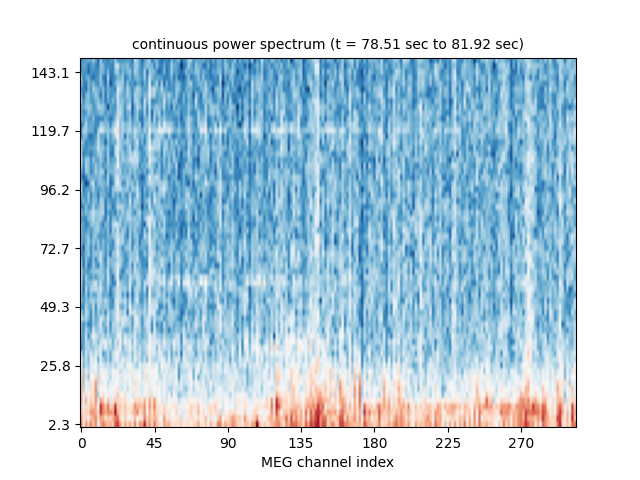
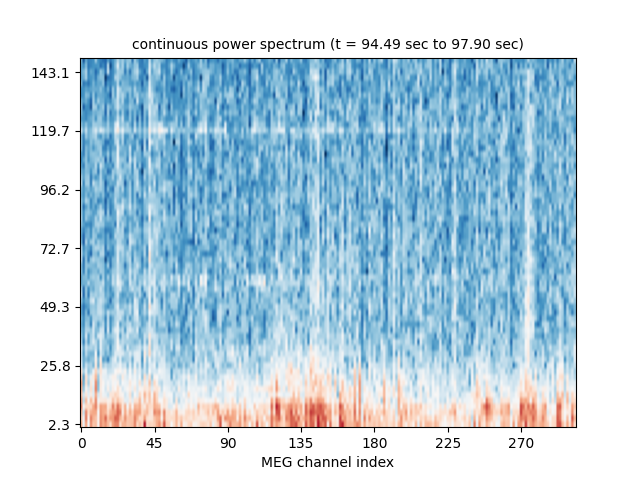
CircleCI update of mne-realtime docs (754).

diff --git a/mne-realtime/auto_examples/plot_lslclient_rt.html b/mne-realtime/auto_examples/plot_lslclient_rt.html
@@ -450,20 +450,20 @@ Not setting metadata
 No baseline correction applied
 Created an SSP operator (subspace dimension = 1)
 1 projection items activated
-/home/circleci/.pyenv/versions/3.12.7/lib/python3.12/multiprocessing/popen_fork.py:66: DeprecationWarning: This process (pid=1786) is multi-threaded, use of fork() may lead to deadlocks in the child.
+/home/circleci/.pyenv/versions/3.12.7/lib/python3.12/multiprocessing/popen_fork.py:66: DeprecationWarning: This process (pid=1805) is multi-threaded, use of fork() may lead to deadlocks in the child.
   self.pid = os.fork()
 Streams closed
-/home/circleci/.pyenv/versions/3.12.7/lib/python3.12/multiprocessing/popen_fork.py:66: DeprecationWarning: This process (pid=1786) is multi-threaded, use of fork() may lead to deadlocks in the child.
+/home/circleci/.pyenv/versions/3.12.7/lib/python3.12/multiprocessing/popen_fork.py:66: DeprecationWarning: This process (pid=1805) is multi-threaded, use of fork() may lead to deadlocks in the child.
   self.pid = os.fork()
-/home/circleci/.pyenv/versions/3.12.7/lib/python3.12/multiprocessing/popen_fork.py:66: DeprecationWarning: This process (pid=1786) is multi-threaded, use of fork() may lead to deadlocks in the child.
+/home/circleci/.pyenv/versions/3.12.7/lib/python3.12/multiprocessing/popen_fork.py:66: DeprecationWarning: This process (pid=1805) is multi-threaded, use of fork() may lead to deadlocks in the child.
   self.pid = os.fork()
-/home/circleci/.pyenv/versions/3.12.7/lib/python3.12/multiprocessing/popen_fork.py:66: DeprecationWarning: This process (pid=1786) is multi-threaded, use of fork() may lead to deadlocks in the child.
+/home/circleci/.pyenv/versions/3.12.7/lib/python3.12/multiprocessing/popen_fork.py:66: DeprecationWarning: This process (pid=1805) is multi-threaded, use of fork() may lead to deadlocks in the child.
   self.pid = os.fork()
-/home/circleci/.pyenv/versions/3.12.7/lib/python3.12/multiprocessing/popen_fork.py:66: DeprecationWarning: This process (pid=1786) is multi-threaded, use of fork() may lead to deadlocks in the child.
+/home/circleci/.pyenv/versions/3.12.7/lib/python3.12/multiprocessing/popen_fork.py:66: DeprecationWarning: This process (pid=1805) is multi-threaded, use of fork() may lead to deadlocks in the child.
   self.pid = os.fork()
-/home/circleci/.pyenv/versions/3.12.7/lib/python3.12/multiprocessing/popen_fork.py:66: DeprecationWarning: This process (pid=1786) is multi-threaded, use of fork() may lead to deadlocks in the child.
+/home/circleci/.pyenv/versions/3.12.7/lib/python3.12/multiprocessing/popen_fork.py:66: DeprecationWarning: This process (pid=1805) is multi-threaded, use of fork() may lead to deadlocks in the child.
   self.pid = os.fork()
-/home/circleci/.pyenv/versions/3.12.7/lib/python3.12/multiprocessing/popen_fork.py:66: DeprecationWarning: This process (pid=1786) is multi-threaded, use of fork() may lead to deadlocks in the child.
+/home/circleci/.pyenv/versions/3.12.7/lib/python3.12/multiprocessing/popen_fork.py:66: DeprecationWarning: This process (pid=1805) is multi-threaded, use of fork() may lead to deadlocks in the child.
   self.pid = os.fork()
 </pre></div>
 </div>
@@ -516,8 +516,8 @@ Streams closed
 <span class="nb">print</span><span class="p">(</span><span class="s1">&#39;Streams closed&#39;</span><span class="p">)</span>
 </pre></div>
 </div>
-<p class="sphx-glr-timing"><strong>Total running time of the script:</strong> (0 minutes 8.532 seconds)</p>
-<p><strong>Estimated memory usage:</strong>  186 MB</p>
+<p class="sphx-glr-timing"><strong>Total running time of the script:</strong> (0 minutes 8.368 seconds)</p>
+<p><strong>Estimated memory usage:</strong>  181 MB</p>
 <div class="sphx-glr-footer sphx-glr-footer-example docutils container" id="sphx-glr-download-auto-examples-plot-lslclient-rt-py">
 <div class="sphx-glr-download sphx-glr-download-jupyter docutils container">
 <p><a class="reference download internal" download="" href="../_downloads/37ea165bff9eb9cf2fccf24163045c99/plot_lslclient_rt.ipynb"><code class="xref download docutils literal notranslate"><span class="pre">Download</span> <span class="pre">Jupyter</span> <span class="pre">notebook:</span> <span class="pre">plot_lslclient_rt.ipynb</span></code></a></p>
@@ -590,7 +590,7 @@ Streams closed
 
   <p class="copyright">
     
-      © Copyright 2012-2026, MNE Developers. Last updated on 2026-05-01.
+      © Copyright 2012-2026, MNE Developers. Last updated on 2026-05-03.
       <br/>
     
   </p>

diff --git a/mne-realtime/sg_execution_times.html b/mne-realtime/sg_execution_times.html
@@ -366,7 +366,7 @@
                   
   <section id="computation-times">
 <span id="sphx-glr-sg-execution-times"></span><h1>Computation times<a class="headerlink" href="#computation-times" title="Link to this heading">#</a></h1>
-<p><strong>01:21.131</strong> total execution time for 8 files <strong>from all galleries</strong>:</p>
+<p><strong>01:20.979</strong> total execution time for 8 files <strong>from all galleries</strong>:</p>
 <div class="docutils container">
 <style scoped>
 <link href="https://cdnjs.cloudflare.com/ajax/libs/twitter-bootstrap/5.3.0/css/bootstrap.min.css" rel="stylesheet" />
@@ -388,28 +388,28 @@ $(document).ready( function () {
 </thead>
 <tbody>
 <tr class="row-even"><td><p><a class="reference internal" href="auto_examples/plot_compute_rt_decoder.html#sphx-glr-auto-examples-plot-compute-rt-decoder-py"><span class="std std-ref">Decoding real-time data</span></a> (<code class="docutils literal notranslate"><span class="pre">../examples/plot_compute_rt_decoder.py</span></code>)</p></td>
-<td><p>00:21.574</p></td>
-<td><p>321.2</p></td>
+<td><p>00:21.640</p></td>
+<td><p>324.9</p></td>
 </tr>
 <tr class="row-odd"><td><p><a class="reference internal" href="auto_examples/plot_compute_rt_average.html#sphx-glr-auto-examples-plot-compute-rt-average-py"><span class="std std-ref">Compute real-time evoked responses using moving averages</span></a> (<code class="docutils literal notranslate"><span class="pre">../examples/plot_compute_rt_average.py</span></code>)</p></td>
-<td><p>00:17.687</p></td>
-<td><p>506.1</p></td>
+<td><p>00:17.916</p></td>
+<td><p>507.6</p></td>
 </tr>
 <tr class="row-even"><td><p><a class="reference internal" href="auto_examples/plot_ftclient_rt_average.html#sphx-glr-auto-examples-plot-ftclient-rt-average-py"><span class="std std-ref">Compute real-time evoked responses with FieldTrip client</span></a> (<code class="docutils literal notranslate"><span class="pre">../examples/plot_ftclient_rt_average.py</span></code>)</p></td>
-<td><p>00:17.385</p></td>
-<td><p>197.4</p></td>
+<td><p>00:16.766</p></td>
+<td><p>197.0</p></td>
 </tr>
 <tr class="row-odd"><td><p><a class="reference internal" href="auto_examples/plot_ftclient_rt_compute_psd.html#sphx-glr-auto-examples-plot-ftclient-rt-compute-psd-py"><span class="std std-ref">Compute real-time power spectrum density with FieldTrip client</span></a> (<code class="docutils literal notranslate"><span class="pre">../examples/plot_ftclient_rt_compute_psd.py</span></code>)</p></td>
-<td><p>00:10.938</p></td>
-<td><p>183.0</p></td>
+<td><p>00:12.380</p></td>
+<td><p>190.0</p></td>
 </tr>
 <tr class="row-even"><td><p><a class="reference internal" href="auto_examples/plot_lslclient_rt.html#sphx-glr-auto-examples-plot-lslclient-rt-py"><span class="std std-ref">Plot real-time epoch data with LSL client</span></a> (<code class="docutils literal notranslate"><span class="pre">../examples/plot_lslclient_rt.py</span></code>)</p></td>
-<td><p>00:08.532</p></td>
-<td><p>185.7</p></td>
+<td><p>00:08.368</p></td>
+<td><p>180.7</p></td>
 </tr>
 <tr class="row-odd"><td><p><a class="reference internal" href="auto_examples/plot_rt_feedback_server.html#sphx-glr-auto-examples-plot-rt-feedback-server-py"><span class="std std-ref">Real-time feedback for decoding :: Server Side</span></a> (<code class="docutils literal notranslate"><span class="pre">../examples/plot_rt_feedback_server.py</span></code>)</p></td>
-<td><p>00:05.015</p></td>
-<td><p>313.0</p></td>
+<td><p>00:03.907</p></td>
+<td><p>317.4</p></td>
 </tr>
 <tr class="row-even"><td><p><a class="reference internal" href="auto_examples/rt_feedback_client.html#sphx-glr-auto-examples-rt-feedback-client-py"><span class="std std-ref">Real-time feedback for decoding :: Client Side</span></a> (<code class="docutils literal notranslate"><span class="pre">../examples/rt_feedback_client.py</span></code>)</p></td>
 <td><p>00:00.000</p></td>
@@ -465,7 +465,7 @@ $(document).ready( function () {
 
   <p class="copyright">
     
-      © Copyright 2012-2026, MNE Developers. Last updated on 2026-05-01.
+      © Copyright 2012-2026, MNE Developers. Last updated on 2026-05-03.
       <br/>
     
   </p>

diff --git a/mne-realtime/auto_examples/sg_execution_times.html b/mne-realtime/auto_examples/sg_execution_times.html
@@ -366,7 +366,7 @@
                   
   <section id="computation-times">
 <span id="sphx-glr-auto-examples-sg-execution-times"></span><h1>Computation times<a class="headerlink" href="#computation-times" title="Link to this heading">#</a></h1>
-<p><strong>01:21.131</strong> total execution time for 8 files <strong>from auto_examples</strong>:</p>
+<p><strong>01:20.979</strong> total execution time for 8 files <strong>from auto_examples</strong>:</p>
 <div class="docutils container">
 <style scoped>
 <link href="https://cdnjs.cloudflare.com/ajax/libs/twitter-bootstrap/5.3.0/css/bootstrap.min.css" rel="stylesheet" />
@@ -388,28 +388,28 @@ $(document).ready( function () {
 </thead>
 <tbody>
 <tr class="row-even"><td><p><a class="reference internal" href="plot_compute_rt_decoder.html#sphx-glr-auto-examples-plot-compute-rt-decoder-py"><span class="std std-ref">Decoding real-time data</span></a> (<code class="docutils literal notranslate"><span class="pre">plot_compute_rt_decoder.py</span></code>)</p></td>
-<td><p>00:21.574</p></td>
-<td><p>321.2</p></td>
+<td><p>00:21.640</p></td>
+<td><p>324.9</p></td>
 </tr>
 <tr class="row-odd"><td><p><a class="reference internal" href="plot_compute_rt_average.html#sphx-glr-auto-examples-plot-compute-rt-average-py"><span class="std std-ref">Compute real-time evoked responses using moving averages</span></a> (<code class="docutils literal notranslate"><span class="pre">plot_compute_rt_average.py</span></code>)</p></td>
-<td><p>00:17.687</p></td>
-<td><p>506.1</p></td>
+<td><p>00:17.916</p></td>
+<td><p>507.6</p></td>
 </tr>
 <tr class="row-even"><td><p><a class="reference internal" href="plot_ftclient_rt_average.html#sphx-glr-auto-examples-plot-ftclient-rt-average-py"><span class="std std-ref">Compute real-time evoked responses with FieldTrip client</span></a> (<code class="docutils literal notranslate"><span class="pre">plot_ftclient_rt_average.py</span></code>)</p></td>
-<td><p>00:17.385</p></td>
-<td><p>197.4</p></td>
+<td><p>00:16.766</p></td>
+<td><p>197.0</p></td>
 </tr>
 <tr class="row-odd"><td><p><a class="reference internal" href="plot_ftclient_rt_compute_psd.html#sphx-glr-auto-examples-plot-ftclient-rt-compute-psd-py"><span class="std std-ref">Compute real-time power spectrum density with FieldTrip client</span></a> (<code class="docutils literal notranslate"><span class="pre">plot_ftclient_rt_compute_psd.py</span></code>)</p></td>
-<td><p>00:10.938</p></td>
-<td><p>183.0</p></td>
+<td><p>00:12.380</p></td>
+<td><p>190.0</p></td>
 </tr>
 <tr class="row-even"><td><p><a class="reference internal" href="plot_lslclient_rt.html#sphx-glr-auto-examples-plot-lslclient-rt-py"><span class="std std-ref">Plot real-time epoch data with LSL client</span></a> (<code class="docutils literal notranslate"><span class="pre">plot_lslclient_rt.py</span></code>)</p></td>
-<td><p>00:08.532</p></td>
-<td><p>185.7</p></td>
+<td><p>00:08.368</p></td>
+<td><p>180.7</p></td>
 </tr>
 <tr class="row-odd"><td><p><a class="reference internal" href="plot_rt_feedback_server.html#sphx-glr-auto-examples-plot-rt-feedback-server-py"><span class="std std-ref">Real-time feedback for decoding :: Server Side</span></a> (<code class="docutils literal notranslate"><span class="pre">plot_rt_feedback_server.py</span></code>)</p></td>
-<td><p>00:05.015</p></td>
-<td><p>313.0</p></td>
+<td><p>00:03.907</p></td>
+<td><p>317.4</p></td>
 </tr>
 <tr class="row-even"><td><p><a class="reference internal" href="rt_feedback_client.html#sphx-glr-auto-examples-rt-feedback-client-py"><span class="std std-ref">Real-time feedback for decoding :: Client Side</span></a> (<code class="docutils literal notranslate"><span class="pre">rt_feedback_client.py</span></code>)</p></td>
 <td><p>00:00.000</p></td>
@@ -465,7 +465,7 @@ $(document).ready( function () {
 
   <p class="copyright">
     
-      © Copyright 2012-2026, MNE Developers. Last updated on 2026-05-01.
+      © Copyright 2012-2026, MNE Developers. Last updated on 2026-05-03.
       <br/>
     
   </p>

diff --git a/mne-realtime/auto_examples/plot_ftclient_rt_compute_psd.html b/mne-realtime/auto_examples/plot_ftclient_rt_compute_psd.html
@@ -405,13 +405,13 @@ how to get the FieldTrip connector working in MNE-Python.</p>
 <p>This example demonstrates how to use it for continuous
 computation of power spectra in real-time using the
 get_data_as_epoch function.</p>
-<img src="../_images/sphx_glr_plot_ftclient_rt_compute_psd_001.png" srcset="../_images/sphx_glr_plot_ftclient_rt_compute_psd_001.png" alt="continuous power spectrum (t = 78.51 sec to 81.92 sec)" class = "sphx-glr-single-img"/><div class="sphx-glr-script-out highlight-none notranslate"><div class="highlight"><pre><span></span>    Read a total of 3 projection items:
+<img src="../_images/sphx_glr_plot_ftclient_rt_compute_psd_001.png" srcset="../_images/sphx_glr_plot_ftclient_rt_compute_psd_001.png" alt="continuous power spectrum (t = 94.49 sec to 97.90 sec)" class = "sphx-glr-single-img"/><div class="sphx-glr-script-out highlight-none notranslate"><div class="highlight"><pre><span></span>    Read a total of 3 projection items:
         PCA-v1 (1 x 102)  idle
         PCA-v2 (1 x 102)  idle
         PCA-v3 (1 x 102)  idle
 Running subprocess: neuromag2ft --file /home/circleci/mne_data/MNE-sample-data/MEG/sample/sample_audvis_raw.fif --speed 10
 FieldTripClient: Waiting for server to start
-/home/circleci/project/mne_realtime/externals/FieldTrip.py:227: ResourceWarning: unclosed &lt;socket.socket fd=13, family=2, type=1, proto=0, laddr=(&#39;0.0.0.0&#39;, 34642)&gt;
+/home/circleci/project/mne_realtime/externals/FieldTrip.py:227: ResourceWarning: unclosed &lt;socket.socket fd=13, family=2, type=1, proto=0, laddr=(&#39;0.0.0.0&#39;, 34598)&gt;
   self.sock = socket.socket(socket.AF_INET, socket.SOCK_STREAM)
 FieldTripClient: Connected
 FieldTripClient: Retrieving header
@@ -526,8 +526,8 @@ Effective window size : 0.426 (s)
             <a href="https://matplotlib.org/stable/api/_as_gen/matplotlib.pyplot.pause.html#matplotlib.pyplot.pause" title="matplotlib.pyplot.pause" class="sphx-glr-backref-module-matplotlib-pyplot sphx-glr-backref-type-py-function"><span class="n">plt</span><span class="o">.</span><span class="n">pause</span></a><span class="p">(</span><span class="mf">0.5</span> <span class="o">/</span> <a href="https://docs.python.org/3/library/functions.html#int" title="builtins.int" class="sphx-glr-backref-module-builtins sphx-glr-backref-type-py-class sphx-glr-backref-instance"><span class="n">speedup</span></a><span class="p">)</span>
 </pre></div>
 </div>
-<p class="sphx-glr-timing"><strong>Total running time of the script:</strong> (0 minutes 10.938 seconds)</p>
-<p><strong>Estimated memory usage:</strong>  183 MB</p>
+<p class="sphx-glr-timing"><strong>Total running time of the script:</strong> (0 minutes 12.380 seconds)</p>
+<p><strong>Estimated memory usage:</strong>  190 MB</p>
 <div class="sphx-glr-footer sphx-glr-footer-example docutils container" id="sphx-glr-download-auto-examples-plot-ftclient-rt-compute-psd-py">
 <div class="sphx-glr-download sphx-glr-download-jupyter docutils container">
 <p><a class="reference download internal" download="" href="../_downloads/ff16df4abc294795a0d28245155bd3eb/plot_ftclient_rt_compute_psd.ipynb"><code class="xref download docutils literal notranslate"><span class="pre">Download</span> <span class="pre">Jupyter</span> <span class="pre">notebook:</span> <span class="pre">plot_ftclient_rt_compute_psd.ipynb</span></code></a></p>
@@ -600,7 +600,7 @@ Effective window size : 0.426 (s)
 
   <p class="copyright">
     
-      © Copyright 2012-2026, MNE Developers. Last updated on 2026-05-01.
+      © Copyright 2012-2026, MNE Developers. Last updated on 2026-05-03.
       <br/>
     
   </p>

diff --git a/mne-realtime/auto_examples/plot_ftclient_rt_average.html b/mne-realtime/auto_examples/plot_ftclient_rt_average.html
@@ -423,7 +423,7 @@ responses using moving averages.</p>
         PCA-v3 (1 x 102)  idle
 Running subprocess: neuromag2ft --file /home/circleci/mne_data/MNE-sample-data/MEG/sample/sample_audvis_raw.fif --speed 10
 FieldTripClient: Waiting for server to start
-/home/circleci/project/mne_realtime/externals/FieldTrip.py:227: ResourceWarning: unclosed &lt;socket.socket fd=13, family=2, type=1, proto=0, laddr=(&#39;0.0.0.0&#39;, 59642)&gt;
+/home/circleci/project/mne_realtime/externals/FieldTrip.py:227: ResourceWarning: unclosed &lt;socket.socket fd=13, family=2, type=1, proto=0, laddr=(&#39;0.0.0.0&#39;, 39080)&gt;
   self.sock = socket.socket(socket.AF_INET, socket.SOCK_STREAM)
 FieldTripClient: Connected
 FieldTripClient: Retrieving header
@@ -441,6 +441,7 @@ NOTE: pick_types() is a legacy function. New code should use inst.pick(...).
 Waiting for epoch 3
 Just got epoch 3
 NOTE: pick_types() is a legacy function. New code should use inst.pick(...).
+Waiting for epoch 4
 Just got epoch 4
 NOTE: pick_types() is a legacy function. New code should use inst.pick(...).
 Waiting for epoch 5
@@ -542,7 +543,7 @@ Time of 2.0 seconds exceeded.
         <a href="../generated/mne_realtime.RtEpochs.html#mne_realtime.RtEpochs.stop" title="mne_realtime.RtEpochs.stop" class="sphx-glr-backref-module-mne_realtime sphx-glr-backref-type-py-method"><span class="n">rt_epochs</span><span class="o">.</span><span class="n">stop</span></a><span class="p">()</span>
 </pre></div>
 </div>
-<p class="sphx-glr-timing"><strong>Total running time of the script:</strong> (0 minutes 17.385 seconds)</p>
+<p class="sphx-glr-timing"><strong>Total running time of the script:</strong> (0 minutes 16.766 seconds)</p>
 <p><strong>Estimated memory usage:</strong>  197 MB</p>
 <div class="sphx-glr-footer sphx-glr-footer-example docutils container" id="sphx-glr-download-auto-examples-plot-ftclient-rt-average-py">
 <div class="sphx-glr-download sphx-glr-download-jupyter docutils container">
@@ -616,7 +617,7 @@ Time of 2.0 seconds exceeded.
 
   <p class="copyright">
     
-      © Copyright 2012-2026, MNE Developers. Last updated on 2026-05-01.
+      © Copyright 2012-2026, MNE Developers. Last updated on 2026-05-03.
       <br/>
     
   </p>

diff --git a/mne-realtime/auto_examples/plot_compute_rt_average.html b/mne-realtime/auto_examples/plot_compute_rt_average.html
@@ -554,8 +554,8 @@ Time of 2.0 seconds exceeded.
     <a href="https://matplotlib.org/stable/api/_as_gen/matplotlib.pyplot.pause.html#matplotlib.pyplot.pause" title="matplotlib.pyplot.pause" class="sphx-glr-backref-module-matplotlib-pyplot sphx-glr-backref-type-py-function"><span class="n">plt</span><span class="o">.</span><span class="n">pause</span></a><span class="p">(</span><span class="mf">0.05</span><span class="p">)</span>
 </pre></div>
 </div>
-<p class="sphx-glr-timing"><strong>Total running time of the script:</strong> (0 minutes 17.687 seconds)</p>
-<p><strong>Estimated memory usage:</strong>  506 MB</p>
+<p class="sphx-glr-timing"><strong>Total running time of the script:</strong> (0 minutes 17.916 seconds)</p>
+<p><strong>Estimated memory usage:</strong>  508 MB</p>
 <div class="sphx-glr-footer sphx-glr-footer-example docutils container" id="sphx-glr-download-auto-examples-plot-compute-rt-average-py">
 <div class="sphx-glr-download sphx-glr-download-jupyter docutils container">
 <p><a class="reference download internal" download="" href="../_downloads/55fcf011b799c5ea1befd73a8932db2f/plot_compute_rt_average.ipynb"><code class="xref download docutils literal notranslate"><span class="pre">Download</span> <span class="pre">Jupyter</span> <span class="pre">notebook:</span> <span class="pre">plot_compute_rt_average.ipynb</span></code></a></p>
@@ -628,7 +628,7 @@ Time of 2.0 seconds exceeded.
 
   <p class="copyright">
     
-      © Copyright 2012-2026, MNE Developers. Last updated on 2026-05-01.
+      © Copyright 2012-2026, MNE Developers. Last updated on 2026-05-03.
       <br/>
     
   </p>

diff --git a/mne-realtime/auto_examples/plot_rt_feedback_server.html b/mne-realtime/auto_examples/plot_rt_feedback_server.html
@@ -569,8 +569,8 @@ Shutting down ...
                 <a href="https://matplotlib.org/stable/api/_as_gen/matplotlib.pyplot.pause.html#matplotlib.pyplot.pause" title="matplotlib.pyplot.pause" class="sphx-glr-backref-module-matplotlib-pyplot sphx-glr-backref-type-py-function"><span class="n">plt</span><span class="o">.</span><span class="n">pause</span></a><span class="p">(</span><span class="mf">0.01</span><span class="p">)</span>
 </pre></div>
 </div>
-<p class="sphx-glr-timing"><strong>Total running time of the script:</strong> (0 minutes 5.015 seconds)</p>
-<p><strong>Estimated memory usage:</strong>  313 MB</p>
+<p class="sphx-glr-timing"><strong>Total running time of the script:</strong> (0 minutes 3.907 seconds)</p>
+<p><strong>Estimated memory usage:</strong>  317 MB</p>
 <div class="sphx-glr-footer sphx-glr-footer-example docutils container" id="sphx-glr-download-auto-examples-plot-rt-feedback-server-py">
 <div class="sphx-glr-download sphx-glr-download-jupyter docutils container">
 <p><a class="reference download internal" download="" href="../_downloads/b117bd599ec872d37d8ed5d4181f3e2e/plot_rt_feedback_server.ipynb"><code class="xref download docutils literal notranslate"><span class="pre">Download</span> <span class="pre">Jupyter</span> <span class="pre">notebook:</span> <span class="pre">plot_rt_feedback_server.ipynb</span></code></a></p>
@@ -643,7 +643,7 @@ Shutting down ...
 
   <p class="copyright">
     
-      © Copyright 2012-2026, MNE Developers. Last updated on 2026-05-01.
+      © Copyright 2012-2026, MNE Developers. Last updated on 2026-05-03.
       <br/>
     
   </p>

diff --git a/mne-realtime/auto_examples/plot_compute_rt_decoder.html b/mne-realtime/auto_examples/plot_compute_rt_decoder.html
@@ -586,8 +586,8 @@ Just got epoch 50
 <a href="https://matplotlib.org/stable/api/_as_gen/matplotlib.pyplot.draw.html#matplotlib.pyplot.draw" title="matplotlib.pyplot.draw" class="sphx-glr-backref-module-matplotlib-pyplot sphx-glr-backref-type-py-function"><span class="n">plt</span><span class="o">.</span><span class="n">draw</span></a><span class="p">()</span>  <span class="c1"># Final figure</span>
 </pre></div>
 </div>
-<p class="sphx-glr-timing"><strong>Total running time of the script:</strong> (0 minutes 21.574 seconds)</p>
-<p><strong>Estimated memory usage:</strong>  321 MB</p>
+<p class="sphx-glr-timing"><strong>Total running time of the script:</strong> (0 minutes 21.640 seconds)</p>
+<p><strong>Estimated memory usage:</strong>  325 MB</p>
 <div class="sphx-glr-footer sphx-glr-footer-example docutils container" id="sphx-glr-download-auto-examples-plot-compute-rt-decoder-py">
 <div class="sphx-glr-download sphx-glr-download-jupyter docutils container">
 <p><a class="reference download internal" download="" href="../_downloads/1fcf0b51a919f6806e1171c7cbcb6899/plot_compute_rt_decoder.ipynb"><code class="xref download docutils literal notranslate"><span class="pre">Download</span> <span class="pre">Jupyter</span> <span class="pre">notebook:</span> <span class="pre">plot_compute_rt_decoder.ipynb</span></code></a></p>
@@ -660,7 +660,7 @@ Just got epoch 50
 
   <p class="copyright">
     
-      © Copyright 2012-2026, MNE Developers. Last updated on 2026-05-01.
+      © Copyright 2012-2026, MNE Developers. Last updated on 2026-05-03.
       <br/>
     
   </p>

diff --git a/mne-realtime/auto_examples/index.html b/mne-realtime/auto_examples/index.html
@@ -481,7 +481,7 @@ compute real-time moving averages, etc.</p>
 
   <p class="copyright">
     
-      © Copyright 2012-2026, MNE Developers. Last updated on 2026-05-01.
+      © Copyright 2012-2026, MNE Developers. Last updated on 2026-05-03.
       <br/>
     
   </p>

diff --git a/mne-realtime/auto_examples/rt_feedback_client.html b/mne-realtime/auto_examples/rt_feedback_client.html
@@ -536,7 +536,7 @@ for a real experiment.</p>
 
   <p class="copyright">
     
-      © Copyright 2012-2026, MNE Developers. Last updated on 2026-05-01.
+      © Copyright 2012-2026, MNE Developers. Last updated on 2026-05-03.
       <br/>
     
   </p>

diff --git a/mne-realtime/auto_examples/rt_feedback_server.html b/mne-realtime/auto_examples/rt_feedback_server.html
@@ -602,7 +602,7 @@ for a real experiment.</p>
 
   <p class="copyright">
     
-      © Copyright 2012-2026, MNE Developers. Last updated on 2026-05-01.
+      © Copyright 2012-2026, MNE Developers. Last updated on 2026-05-03.
       <br/>
     
   </p>

diff --git a/mne-realtime/index.html b/mne-realtime/index.html
@@ -487,7 +487,7 @@ to report bugs.</p>
 
   <p class="copyright">
     
-      © Copyright 2012-2026, MNE Developers. Last updated on 2026-05-01.
+      © Copyright 2012-2026, MNE Developers. Last updated on 2026-05-03.
       <br/>
     
   </p>
